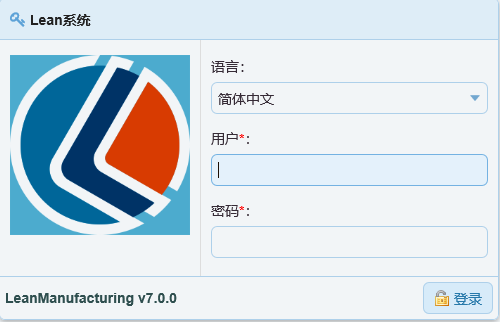
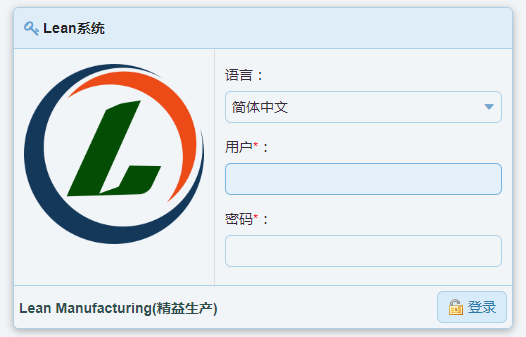
更新readme

Changed region(s): [[0.0, 0.0, 1.0, 1.0]]

diff --git a/README.md b/README.md
@@ -1,9 +1,9 @@
-![Logo](https://github.com/davischeng/LeanClouds/blob/master/LeanCloud/res/svg/Lean.png)
+![Logo](https://github.com/Lean365/Lean.Fineform/blob/master/Lean.Fineform/Lf_Resources/images/login/Lean_Logo.png)
 
 ### Lean.Mes
 [![Release](1.01)](https://github.com/davischeng/LeanBench.Net/releases/latest) [![Language grade: C#](1.01)](https://github.com/davischeng/LeanBench.Net/releases/latest)
 
-![screenshot](https://github.com/davischeng/LeanBench.Net/tree/master/LeanBench.Net/LB_Resources/svg/login.png)
+![screenshot](https://github.com/Lean365/Lean.Fineform/blob/master/Lean.Fineform/Lf_Resources/images/login/Lean_Logo.png)
 ![screenshot](https://github.com/davischeng/LeanBench.Net/tree/master/LeanBench.Net/LB_Resources/svg/main.png)
 - **别名：Lean.Mes**
 --------
